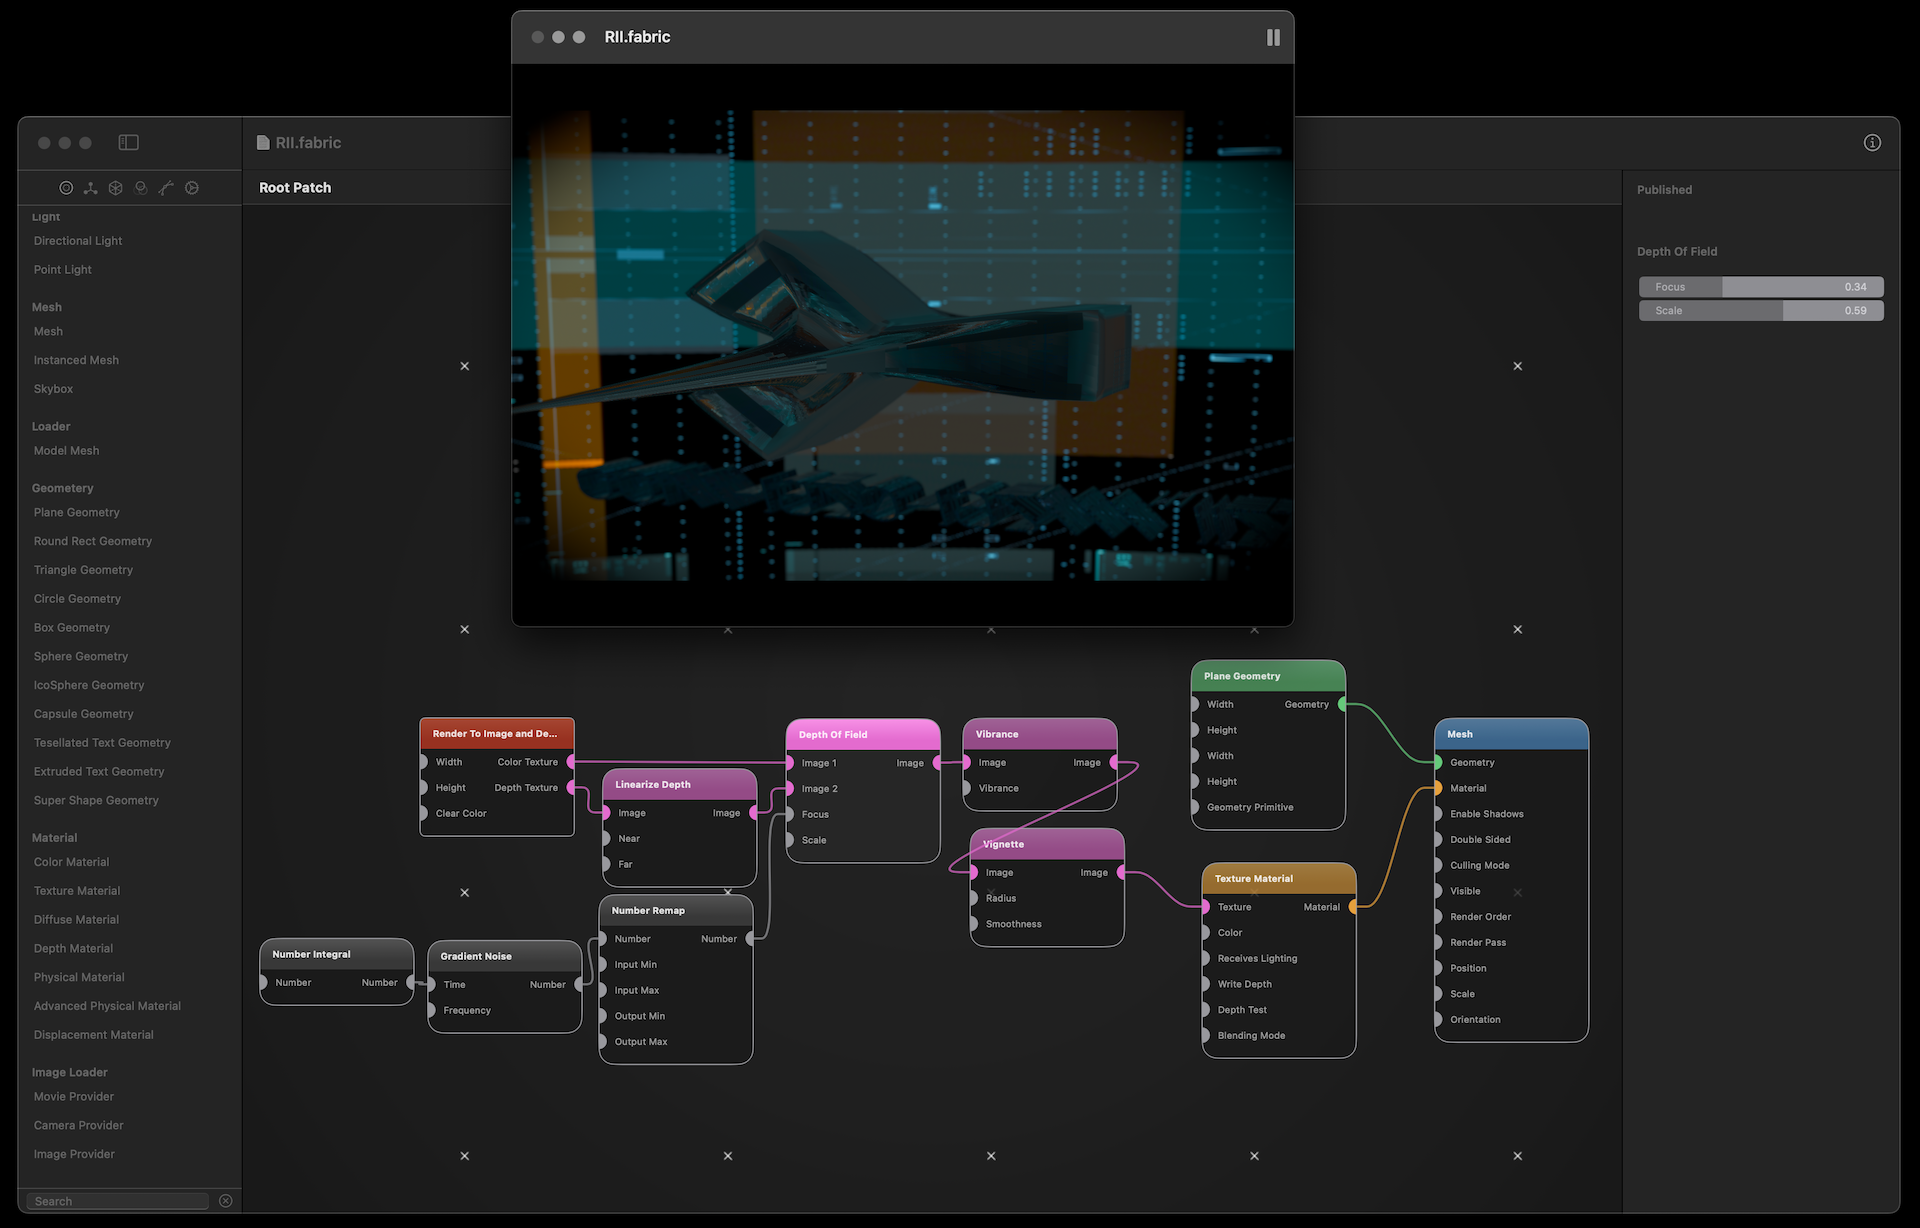
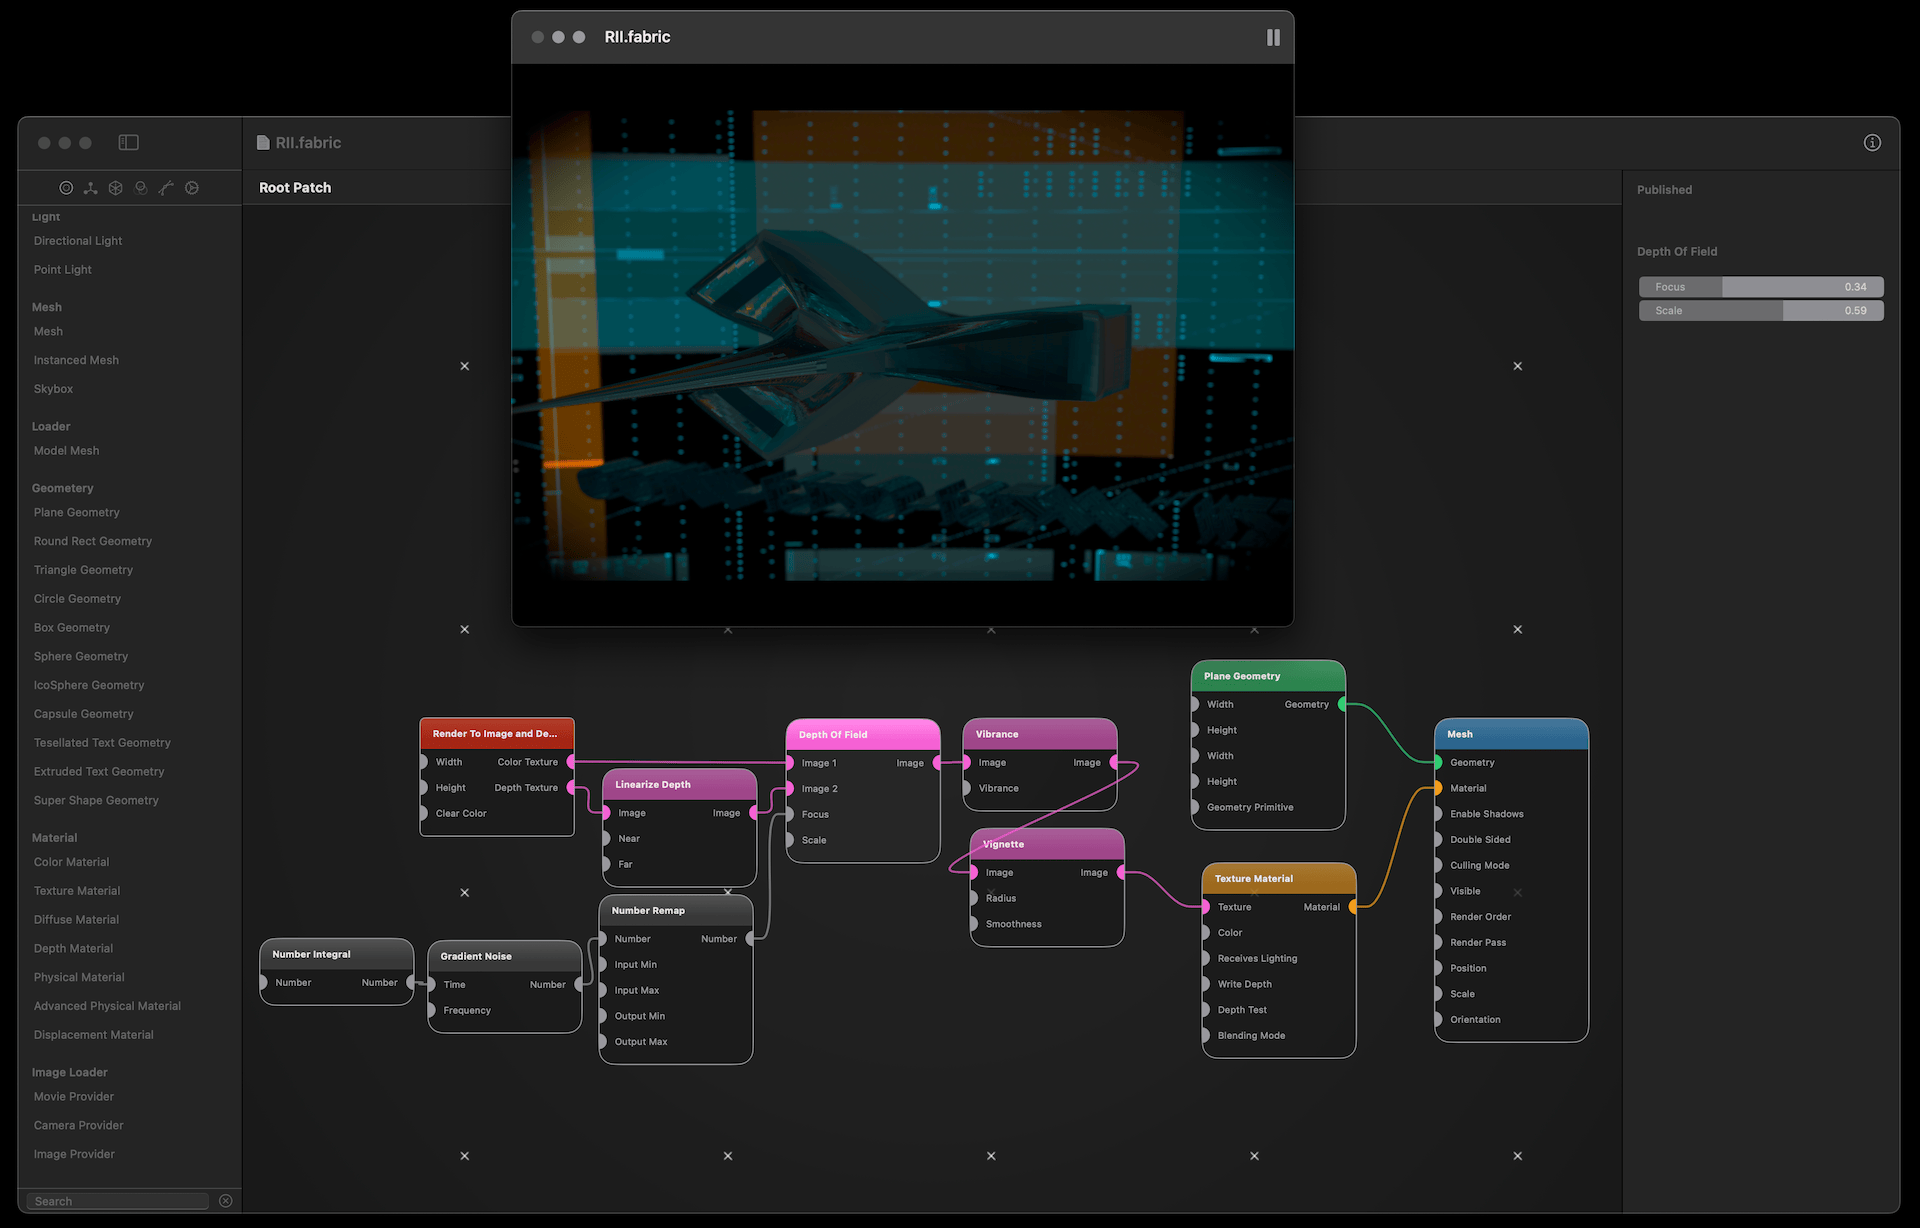
Optimize image and clean up formatting

Changed region(s): [[0.625, 0.5261, 0.7188, 0.5879], [0.3125, 0.2476, 0.4062, 0.3094], [0.3125, 0.1238, 0.375, 0.1857]]

diff --git a/implementations.md b/implementations.md
@@ -233,25 +233,24 @@ by [Rob Cheung](https://www.robcheung.com/)
 Fully open source and web based programming enviroment in javascript (React).
 > You can think of it as an extension of Sol LeWitt's process art in the sense that it's goal is to decompose art into procedural descriptions. Or you can think of it as an extension of Brian Eno's idea of "music as gardening" in the sense that it gives you a computational garden to tend to.
 
+
 <br><br><br><br>
+
 
 ![](assets/Fabric.png)
 
 # [Fabric](https://github.com/Fabric-Project/Fabric)
 by [Anton Marini](https://vade.info)
 
-Fabric is a fully open source creative coding environment for Apple platforms, fashioned after Quartz Composer, but built using modern tooling (Swift, Metal) allowing for the creation of high fidelity interactive graphics and images and scenes. It supports physcally based rendering, image based lighting, shadows, model loading, post processing, image analysis and more. 
+Fabric is a fully open source creative coding environment for Apple platforms, fashioned after Quartz Composer, but built using modern tooling (Swift, Metal) allowing for the creation of high fidelity interactive graphics and images and scenes. It supports physically-based rendering, image-based lighting, shadows, model loading, post processing, image analysis, and more.
 
 > Fabric is intended to be used as
+> * A Creative coding tool requires little to no programming experience.
+> * Pro User tool to create reusable documents (similar to Quartz Composer Compositions) that can be loaded in the Fabric runtime and embedded into 3rd party applications.
+> * Developer environment built on Satin that can render high fidelity visual output in a procedural way, using modern rendering techniques.
 
-> A Creative coding tool requires little to no programming experience.
-
-> Pro User tool to create reusable documents (similar to Quartz Composer Compositions) that can be loaded in the Fabric runtime and embedded into 3rd party applications.
-
-> Developer environment built on Satin that can render high fidelity visual output in a procedural way, using modern rendering techniques.
 
 <br><br><br><br>
-
 
 
 ![](assets/fabrik.gif)
@@ -651,7 +650,7 @@ A meta-modelling tool built on top of [Pharo](https://pharo.org/) (a SmallTalk d
 # [ossia score](https://ossia.io/)
 
 > A free, open-source, cross-platform intermedia sequencer for precise and flexible scripting of interactive scenarios.
-Control and score any OSC-compliant software or hardware: Max/MSP, PureData, openFrameworks, Processing… 
+Control and score any OSC-compliant software or hardware: Max/MSP, PureData, openFrameworks, Processing…
 
 * [Repository](https://github.com/OSSIA/score)
 
